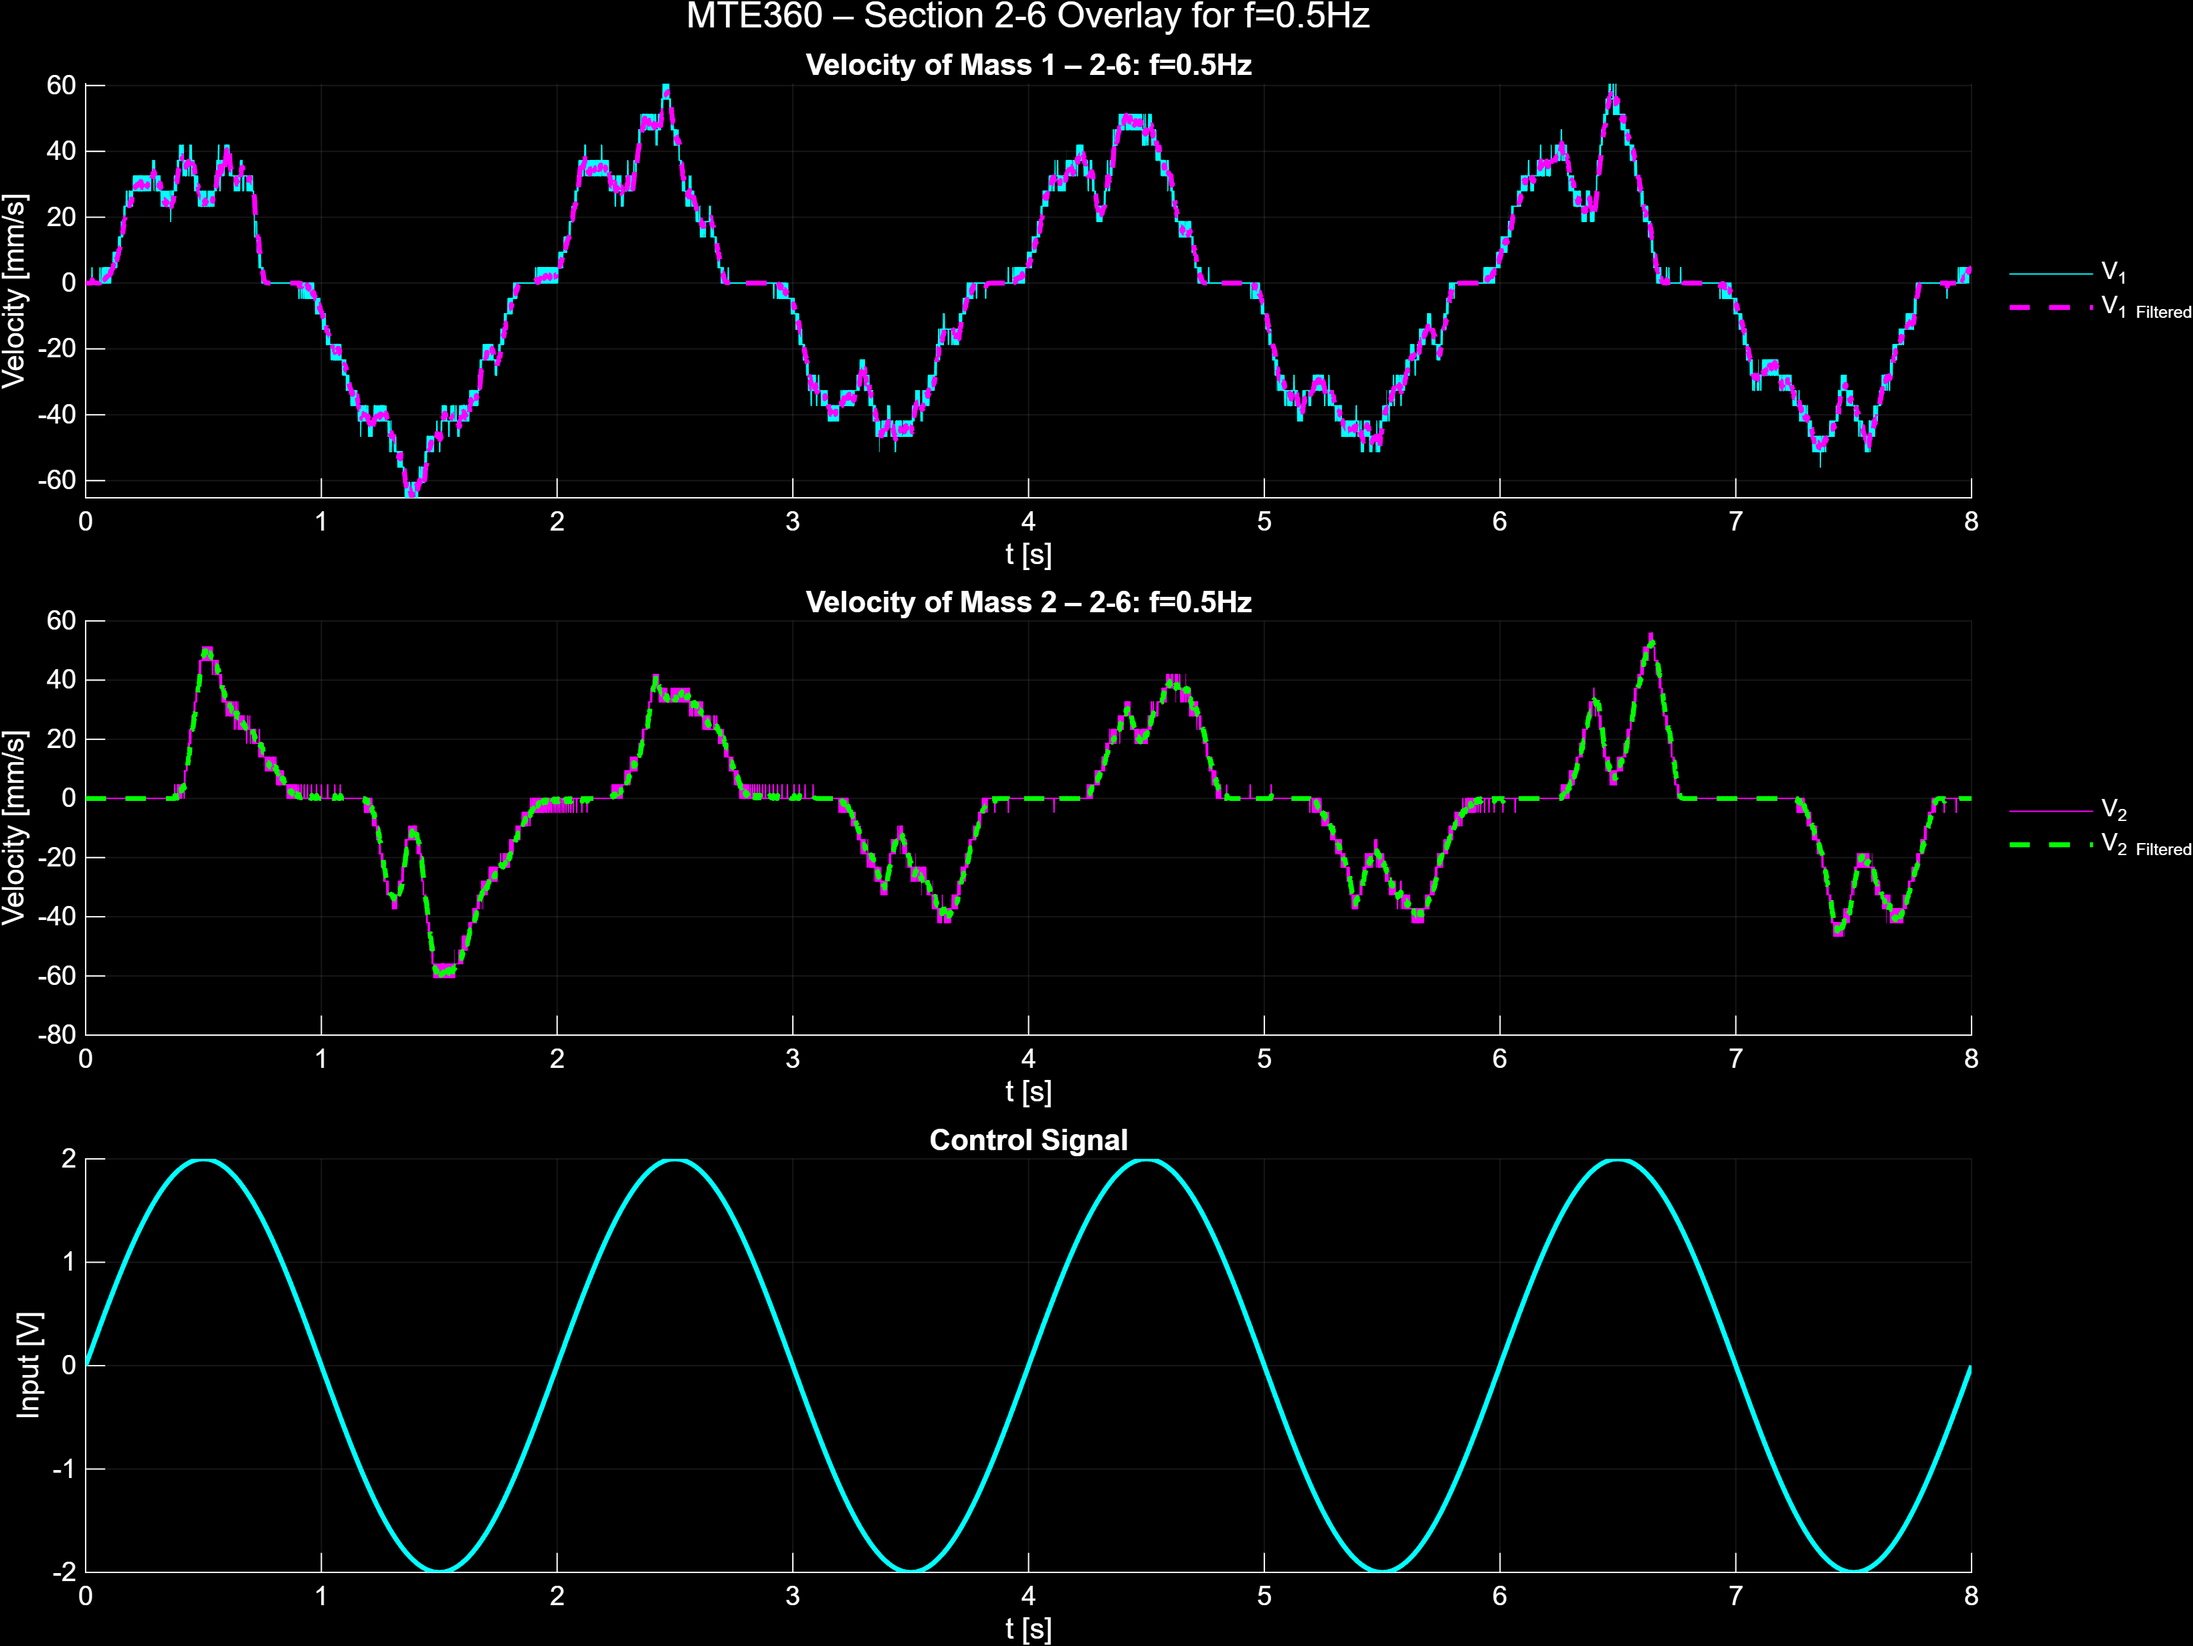
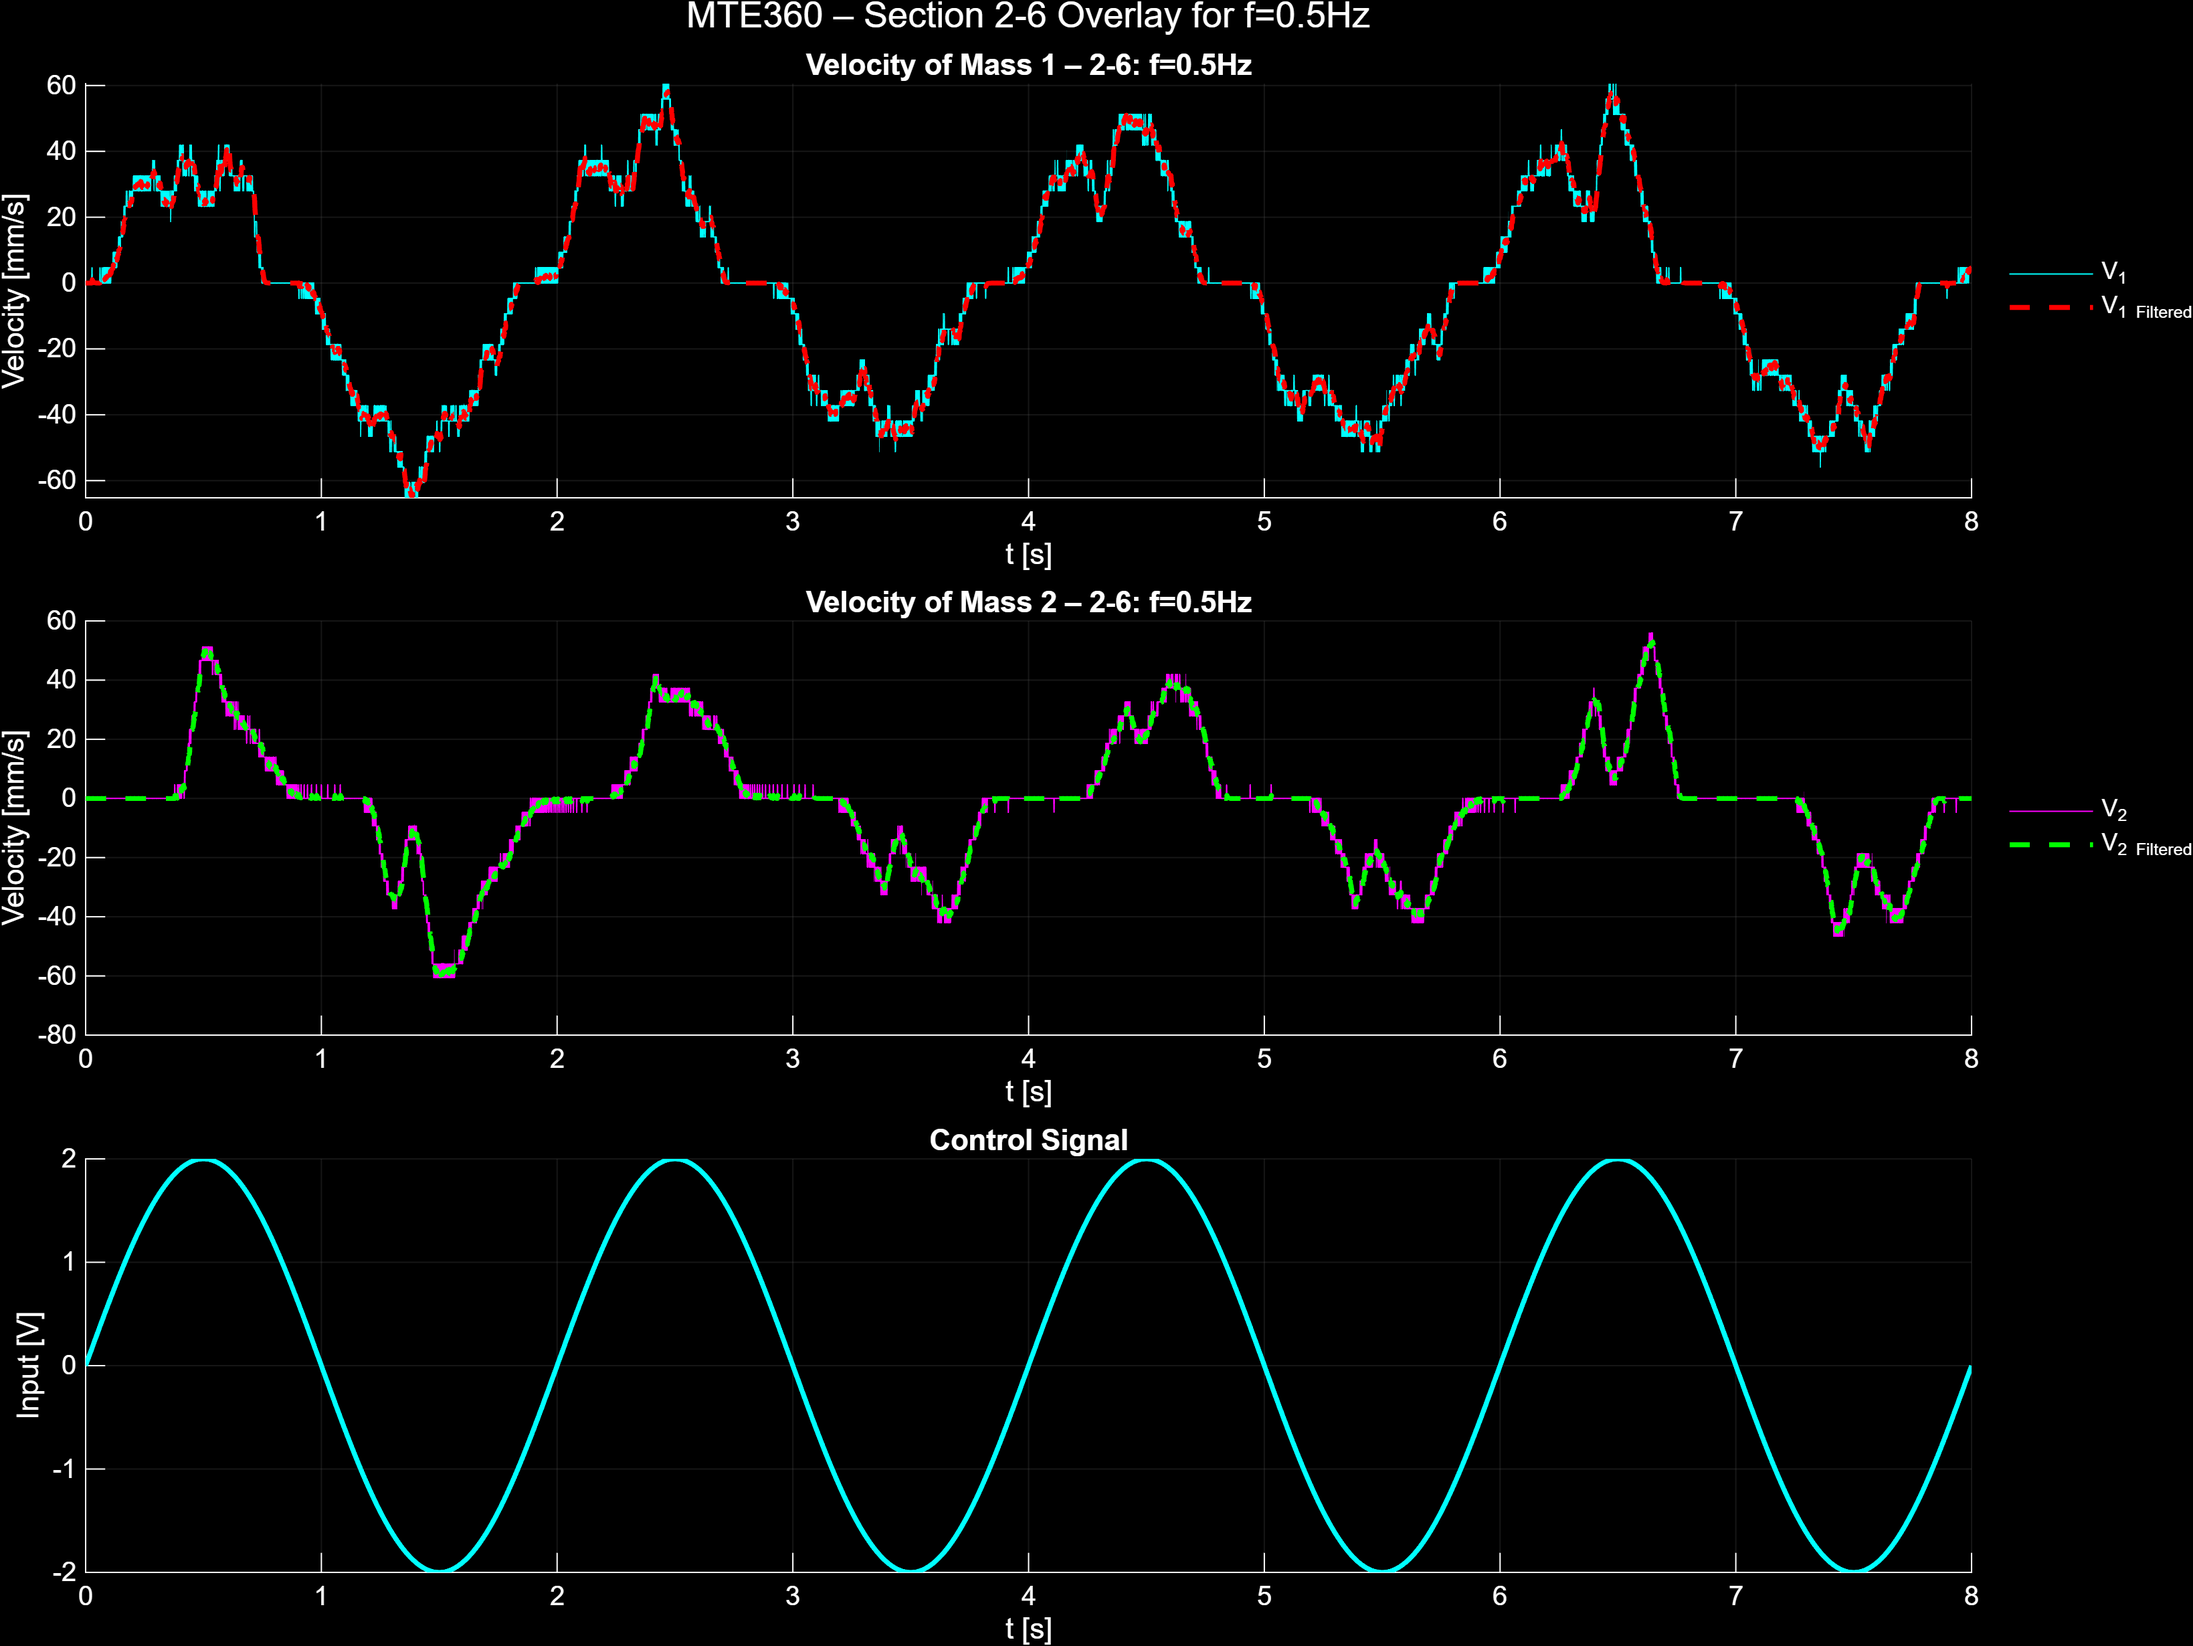
Modified Section 2 Plotting

diff --git a/plot_velocity_response.m b/plot_velocity_response.m
@@ -24,7 +24,7 @@ function [fig] = plot_velocity_response(data,part,val)
 
     ax1 = nexttile; hold(ax1,'on');
     plot(t, v1, 'Color',[0 1 1], 'LineWidth',0.5);              % V1 x in cyan
-    plot(t, v1_filt, '--', 'Color',[1 0 1], 'LineWidth',1.8);   % Filtered in magenta
+    plot(t, v1_filt, '--', 'Color',[1 0 0], 'LineWidth',1.8);   % Filtered in red
     grid on; xlabel('t [s]'); ylabel('Velocity [mm/s]'); title(['Velocity of Mass 1 – ' part ': ' val],'Color','w');
     legend({'V_1','V_{1 Filtered}'},'Location','eastoutside','TextColor','w','Box','off');
     darken(ax1);

diff --git a/part_2_plotting.m b/part_2_plotting.m
@@ -94,7 +94,7 @@ for v = 1:length(voltageFolders)
 end
 
 %% Plot requested frequency responses
-freq = {'0_5', '4_0', '8_0', '16_0'}; % Generate a figure for each frequency listed here in format XX.X = XX_X
+freq = {'0_5', '2_0', '4_0', '8_0'}; % Generate a figure for each frequency listed here in format XX.X = XX_X
 
 for j = 1:length(freq)
     freqFileName = sprintf('2_6-%sHz.mat',freq{j});
